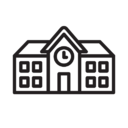
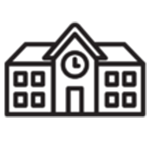
사진 변경

diff --git a/index.html b/index.html
@@ -17,7 +17,7 @@
         
         <div class="box">
             <div class="line">
-                <div class="bigBox"><a href="#"><img src="./images/school.png" alt="학교 소개"><div>학교 소개</div> </a></div>
+                <div class="bigBox"><a href="#"><img class="mb" src="./images/school.png" alt="학교 소개"><div>학교 소개</div> </a></div>
                 <div class="smallBox"><a href="#"><img src="./images/major.png" alt=""><div>학과 소개</div> </a></div>
             </div>
             <div class="line">

diff --git a/css/style.css b/css/style.css
@@ -120,3 +120,7 @@ a {
     font-weight: bold;
     color : black;
 }
+
+.mb {
+    margin-bottom: -21.5px;
+}
